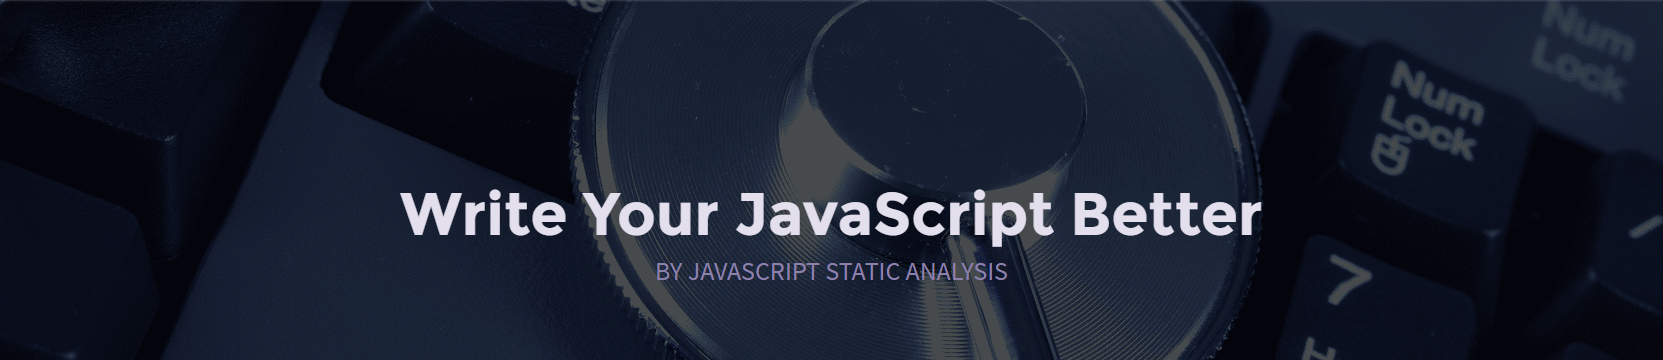
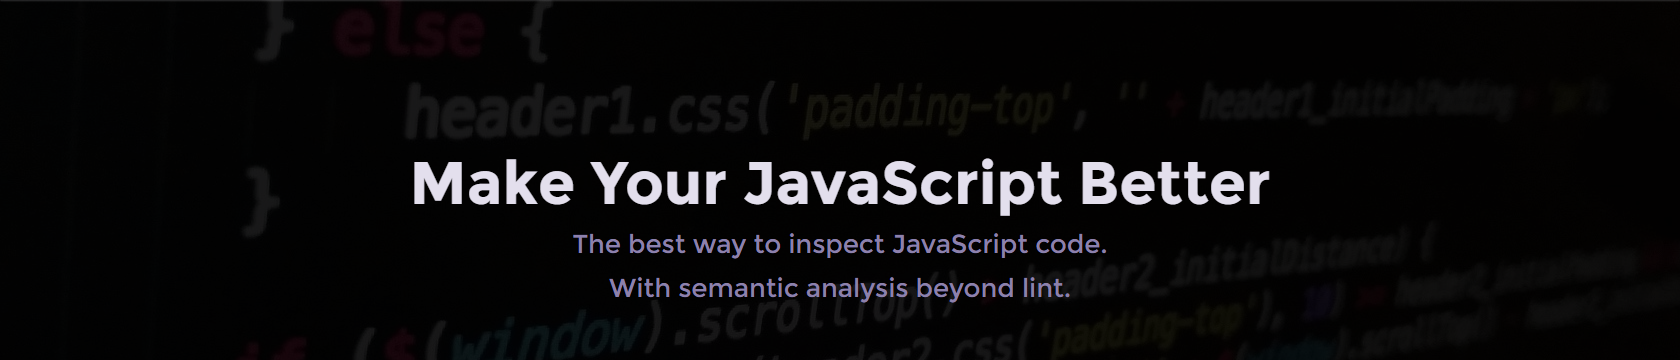
Post #8 - Introduce DeepScan

diff --git a/_posts/blog/2017-03-23-deepscan.md b/_posts/blog/2017-03-23-deepscan.md
@@ -1,0 +1,36 @@
+---
+layout: post
+title: "JavaScript 코드 인스펙션 서비스 DeepScan 소개"
+excerpt: "ESLint보다 뛰어난 JavaScript 코드 인스펙션 도구 DeepScan을 소개합니다."
+date: 2017-03-23 20:00:00 +0900
+categories: blog
+tags:
+- JavaScript
+- Code Inspection
+- Code Quality
+- DeepScan
+- ESLint
+comments: true
+share: true
+---
+
+JavaScript가 참 많이 사용됩니다. 단순한 웹 UI용 언어에서 지금은 서버 및 데스크톱 앱 개발을 망라하는 인기 있는 언어가 되었습니다. [GitHub](https://octoverse.github.com/)에 따르면 2016년 가장 많은 pull request가 있었던 언어라고 할 정도로요.
+
+하지만 JavaScript의 매력이기도 할 유연한 타입이나 동적 실행은 그 활용 범위와 관리할 코드 크기가 커지면서 오히려 뛰어난 코드 품질을 유지하는 데 방해가 되고 있습니다. TypeScript의 사용이 늘어나고 Flow 같은 타입 체커가 나오는 이유이겠죠.
+
+그렇다면, JavaScript에도 C나 Java의 Prevent 같이 개발자들이 코드 품질 유지에 도움을 주는 도구가 있다면 어떨까요? ESLint 같이 단순한 구문 체크가 아니라 프로그램의 실행 흐름을 이해하고 에러나 흔한 실수를 미리 잡아 줄 수 있다면 어떨까요?
+
+이런 생각에서 다음과 같은 JavaScript 코드 인스펙션 도구 DeepScan을 만들게 되었습니다.
+* JavaScript 정적 분석 기술에 기반해 프로그램의 실행 흐름을 이해한다.
+* 개발자들이 진짜 에러에 집중할 수 있도록 노이즈(false alarm)가 적다.
+* 에러와 코드 품질 관점의 유용한 규칙들을 제공한다.
+
+그리고 얼마 전 DeepScan 기반의 GitHub 연동형 서비스 [deepscan.io](https://deepscan.io)를 시작하게 되었습니다.
+GitHub 계정만 있으면 자신의 리파지토리를 분석할 수 있고, 바로 임의의 코드를 분석해 볼 수 있는 [데모](https://deepscan.io/demo)도 제공합니다.
+
+<iframe width="560" height="315" src="https://www.youtube.com/embed/pVdmEpYLVLA" frameborder="0" allowfullscreen></iframe>
+
+[방문](https://deepscan.io)해 보세요!
+
+아직 알파 서비스라 갈 길이 멀지만 JavaScript 개발자에게 유용한 도구가 될 것이라고 믿고 있습니다.
+서비스에 대한 피드백이나 이런 규칙이 필요해 같은 아이디어 모두 환영합니다^^. 블로그 댓글이나 <a href="mailto:support@deepscan.io">support@deepscan.io</a> 어디로든요!

diff --git a/about/index.md b/about/index.md
@@ -17,8 +17,8 @@ image:
 
 웹과 JavaScript에 관심이 많은 사람이 운영하는 개인 블로그입니다.
 
-[웹 기반 IDE](https://github.com/webida)에 참여했었고 현재는 **JavaScript 정적 분석 기술**을 바탕으로 한 솔루션을 개발하고 있습니다.
+[웹 기반 IDE](https://github.com/webida)에 참여했었고 현재는 **JavaScript 정적 분석 기술**을 바탕으로 한 JavaScript 코드 인스펙션 서비스인 [DeepScan](https://deepscan.io)을 운영하고 있습니다.
 
-개발 중인 제품의 검증 차원에서 다양한 사이트나 오픈 소스 프로젝트에 정적 분석을 수행하고 잘못된 JavaScript 코딩 사례들을 수집하다가 더 많은 개발자들이 더 나은 JavaScript 코딩을 하기 위해 도움이 되도록 이 블로그를 통해 사례들을 공유하려고 합니다.
+서비스를 개발하면서 다양한 오픈 소스 프로젝트에 대한 분석을 수행하고 잘못된 코딩 사례들을 수집하면서 JavaScript 개발자들에게 도움이 될 만한 사례 공유를 위해 블로그에 간간이 글을 쓰고 있습니다.
 
-이 블로그에 올라오는 글에 대한 피드백은 블로그 댓글로 가능합니다. 블로그 글에 대한 것이 아니어도 JavaScript나 정적 분석 기술에 대한 피드백이라면 환영합니다. :)
+이 블로그에 올라오는 글에 대한 피드백은 블로그 댓글로 가능합니다. 블로그 글에 대한 것이 아니어도 JavaScript나 정적 분석 기술에 대한 피드백은 모두 환영합니다. :)
